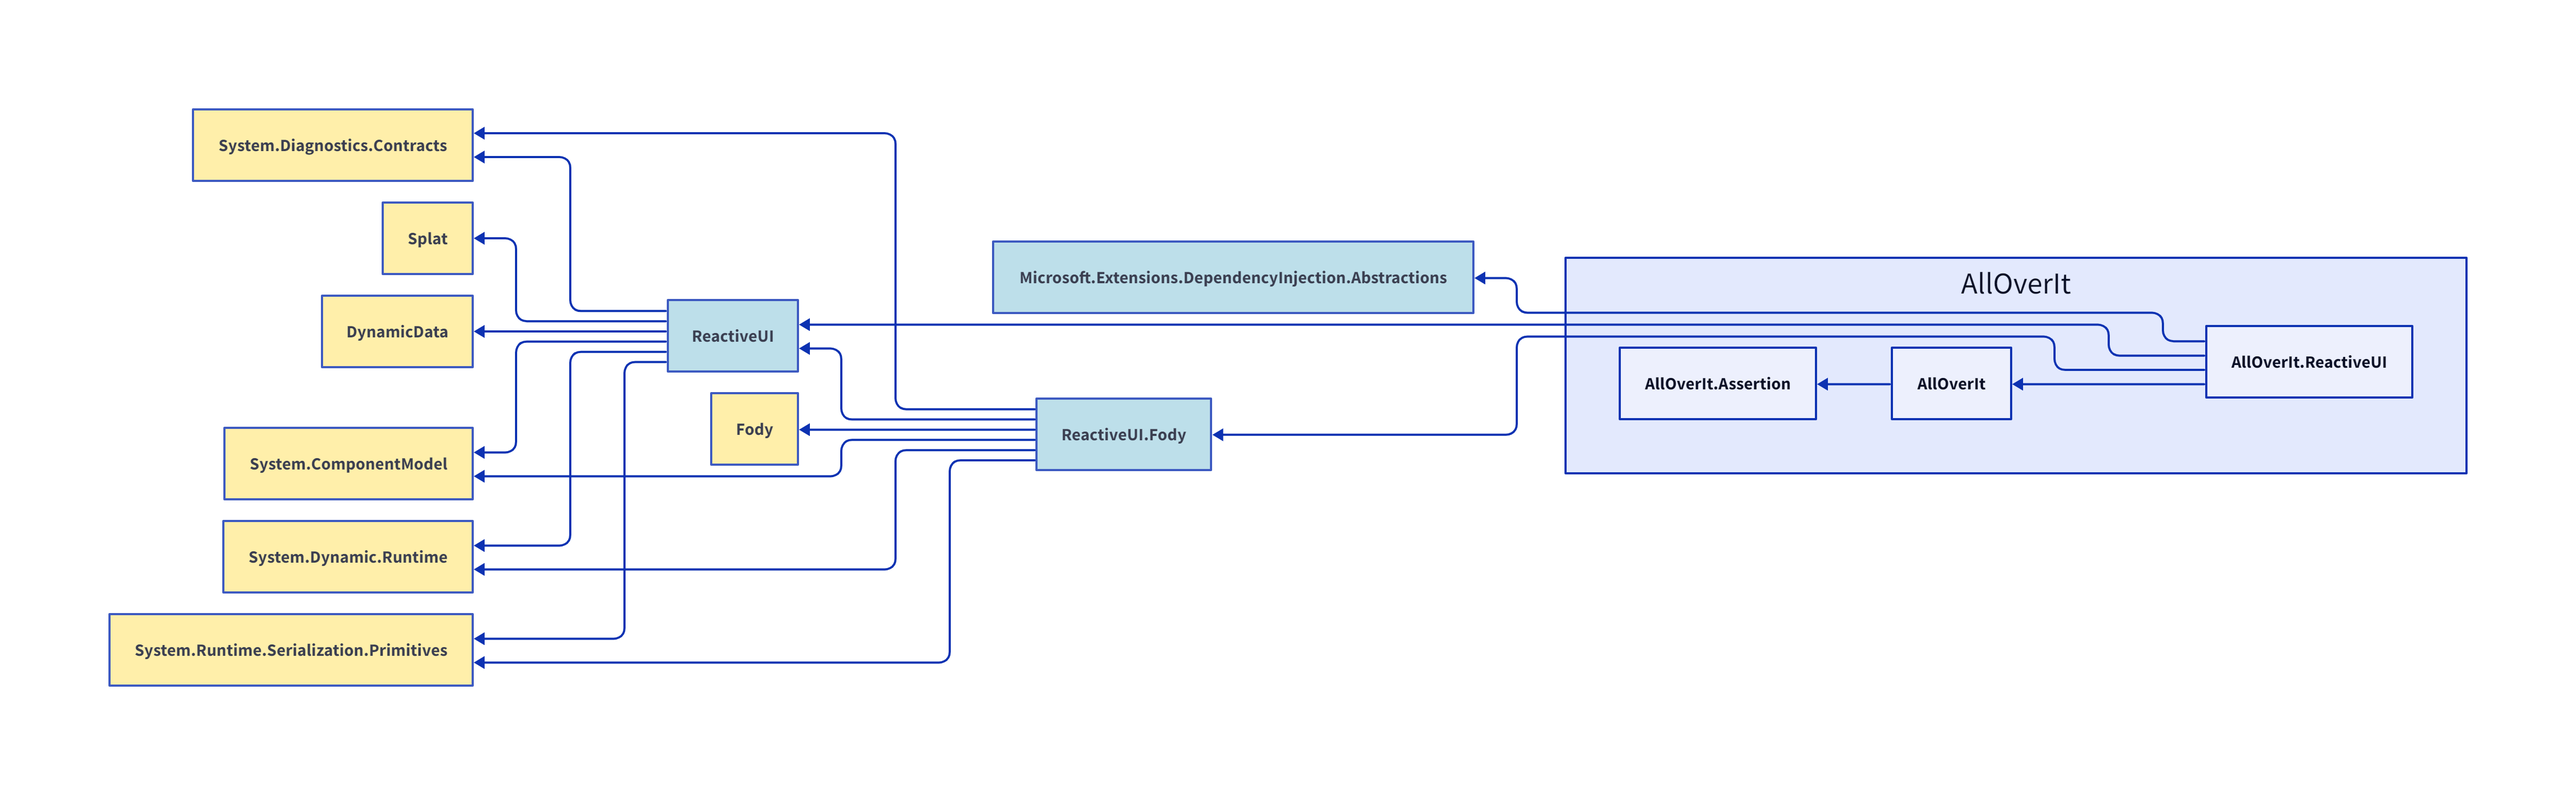
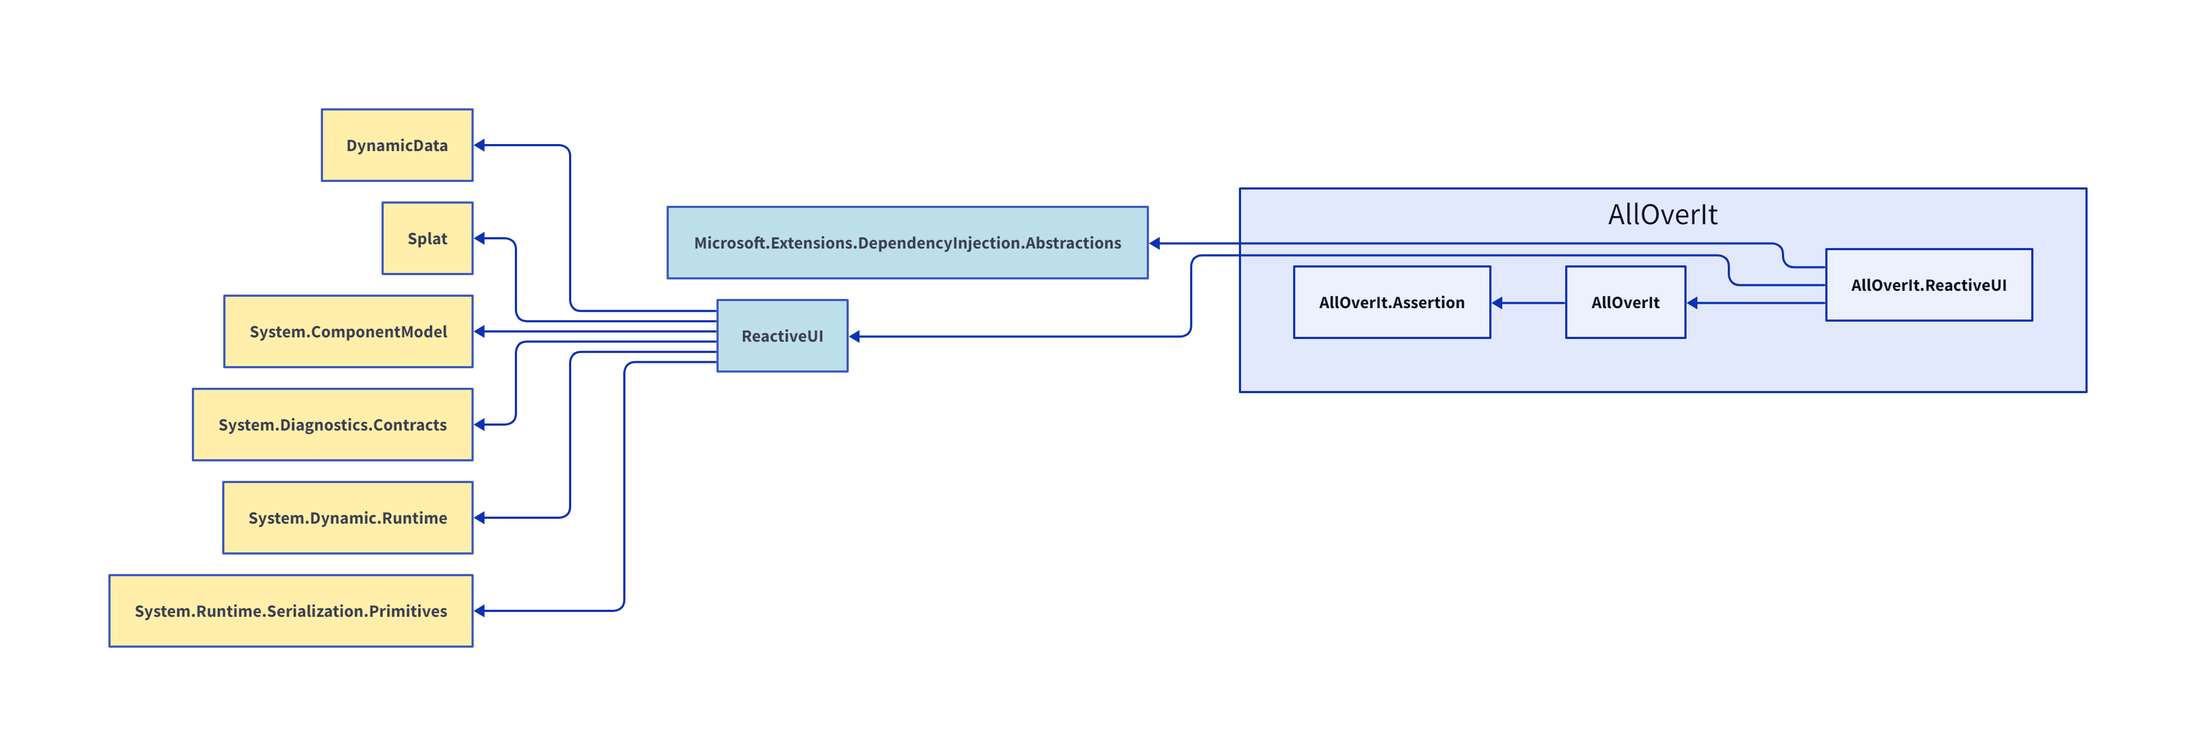
Removed dependency on ReactiveUI.Fody

Changed region(s): [[0.0311, 0.1232, 0.964, 0.8625]]

diff --git a/Source/AllOverIt.ReactiveUI/CountdownTimer.cs b/Source/AllOverIt.ReactiveUI/CountdownTimer.cs
@@ -1,6 +1,5 @@
 using AllOverIt.Assertion;
 using ReactiveUI;
-using ReactiveUI.Fody.Helpers;
 using System;
 using System.Linq;
 using System.Reactive;
@@ -19,6 +18,9 @@ namespace AllOverIt.ReactiveUI
         private ReactiveCommand<int, Unit> _startCommand;
         private IDisposable _startDisposable;
         private IDisposable _intervalDisposable;
+        private bool _isRunning;
+        private double _remainingMilliseconds;
+        private TimeSpan _remainingTimeSpan;
 
         /// <inheritdoc />
         public double TotalMilliseconds { get; private set; }
@@ -27,16 +29,25 @@ namespace AllOverIt.ReactiveUI
         public TimeSpan TotalTimeSpan => TimeSpan.FromMilliseconds(TotalMilliseconds);
 
         /// <inheritdoc />
-        [Reactive]
-        public bool IsRunning { get; private set; }
+        public bool IsRunning
+        {
+            get => _isRunning;
+            private set => this.RaiseAndSetIfChanged(ref _isRunning, value);
+        }
 
         /// <inheritdoc />
-        [Reactive]
-        public double RemainingMilliseconds { get; private set; }
+        public double RemainingMilliseconds
+        {
+            get => _remainingMilliseconds;
+            private set => this.RaiseAndSetIfChanged(ref _remainingMilliseconds, value);
+        }
 
         /// <inheritdoc />
-        [Reactive]
-        public TimeSpan RemainingTimeSpan { get; private set; }
+        public TimeSpan RemainingTimeSpan
+        {
+            get => _remainingTimeSpan;
+            private set => this.RaiseAndSetIfChanged(ref _remainingTimeSpan, value);
+        }
 
         /// <inheritdoc />
         public IObservable<bool> WhenCompleted() => _countdownCompletedSubject;
